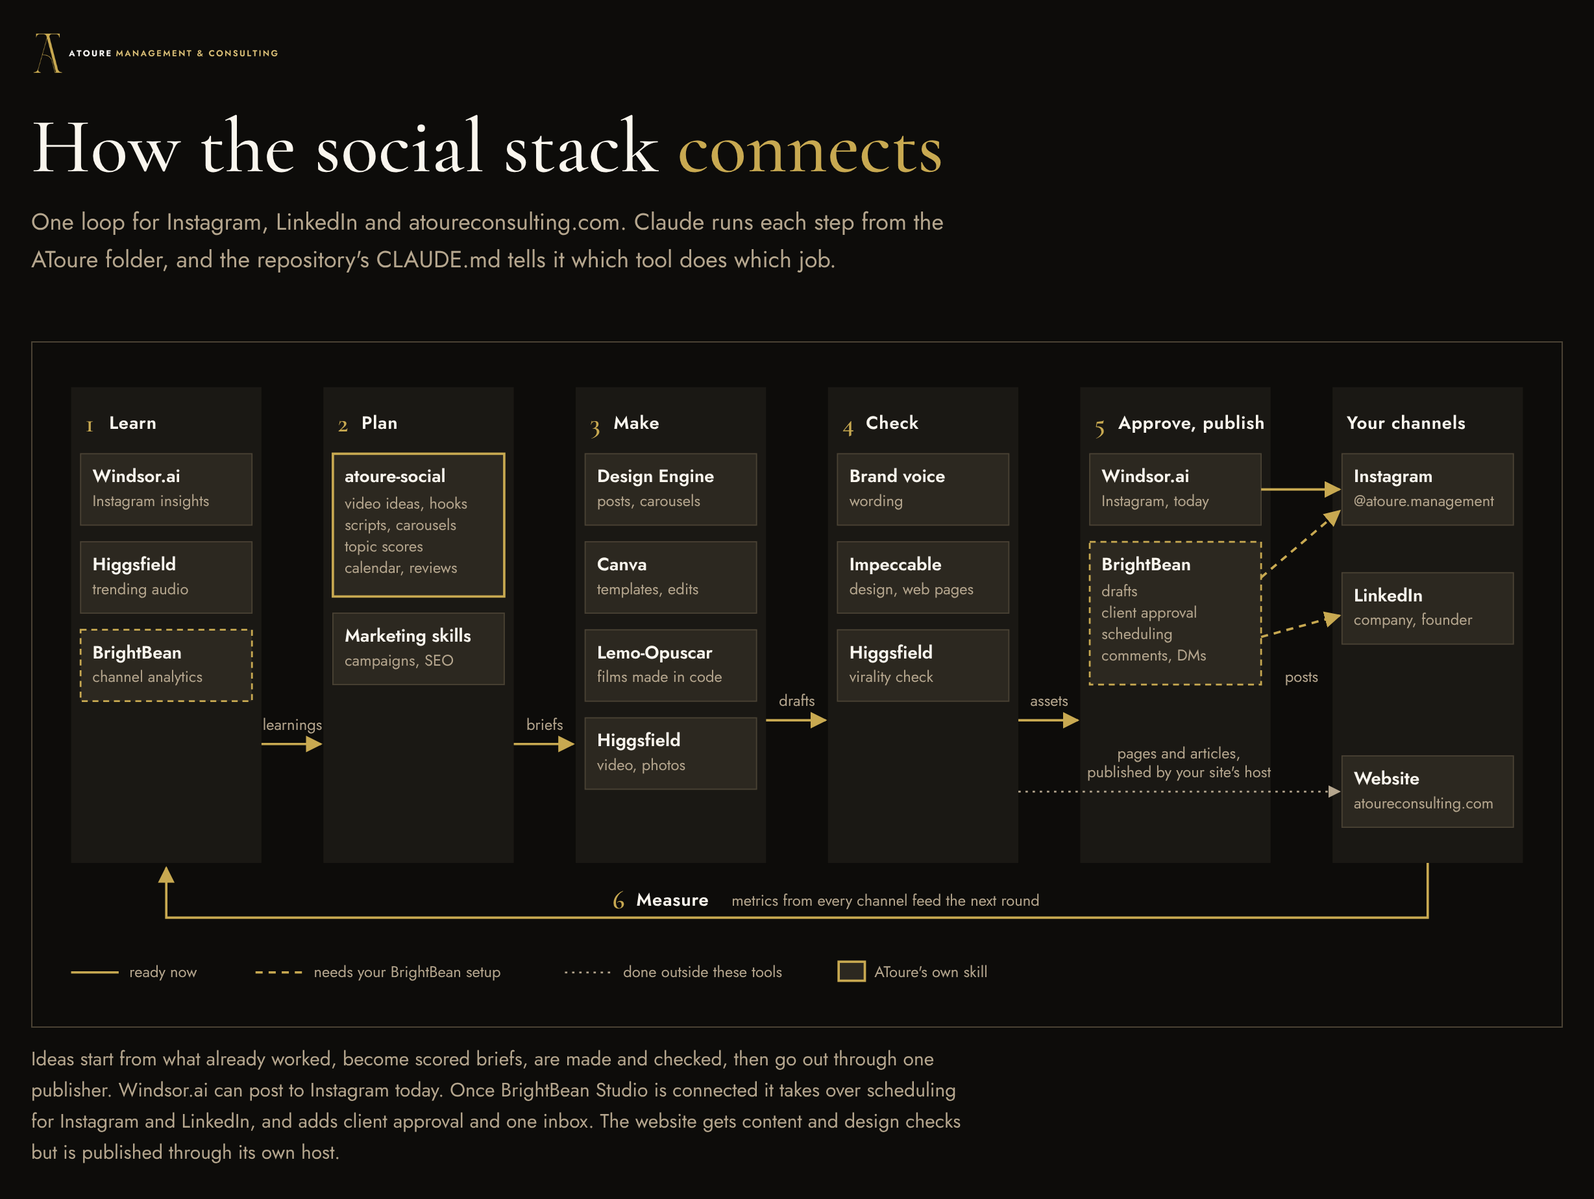
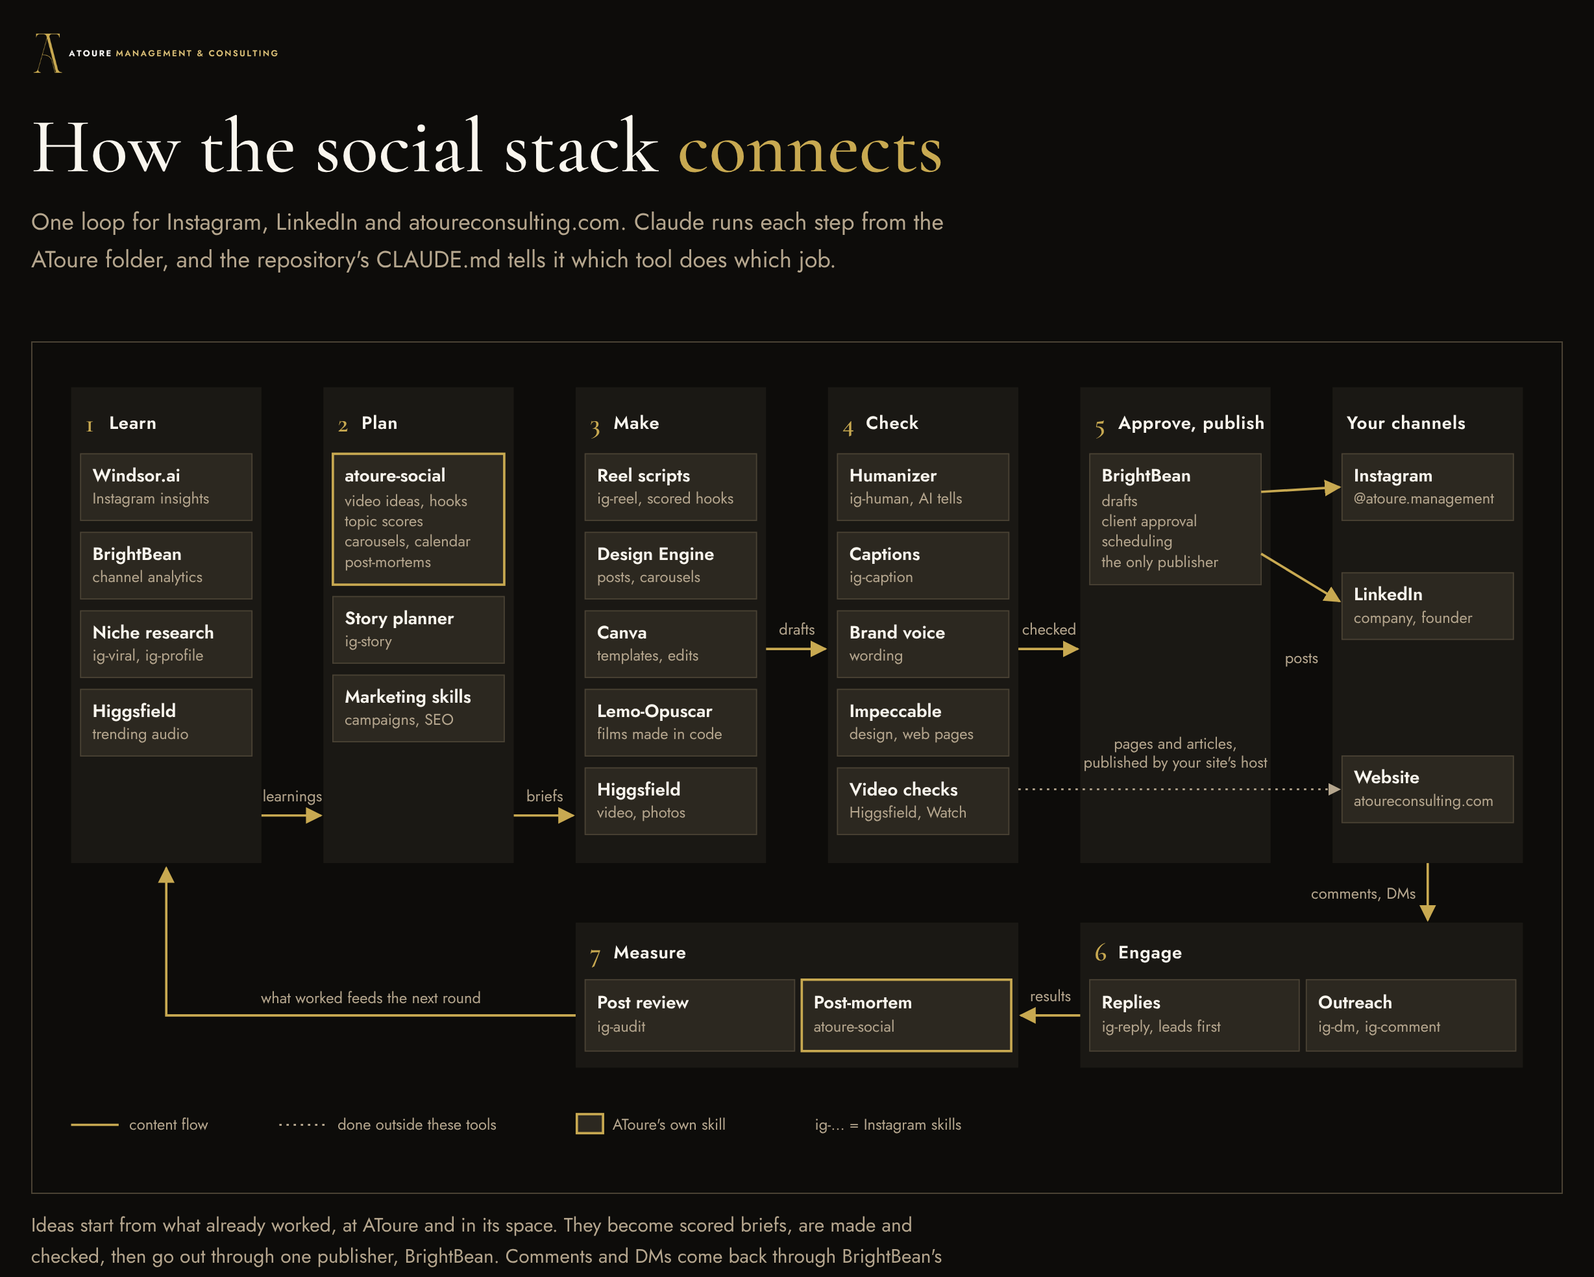
Redraw the stack diagram with Engage and Measure steps
The loop now runs Learn, Plan, Make, Check, Approve and publish, then
Engage (replies and outreach drafted by the Instagram skills, sent by the
user) and Measure (post review and post-mortem) back to Learn. The
Instagram skills sit at their steps, BrightBean is shown connected as the
only publisher, and Windsor.ai as insights only. The channel cards,
status lists and credits are updated; the page is republished at the
same link and the PNG regenerated.

Claude-Session: https://claude.ai/code/session_01YTg2RyojNFzVd1DHGCFS3m

diff --git a/tools/social-media/stack-diagram.html b/tools/social-media/stack-diagram.html
@@ -80,19 +80,22 @@ footer{border-top:1px solid var(--line);padding-top:16px;font-size:14px;color:va
 
   <figure>
     <div class="scroll">
-      <svg class="dg" viewBox="0 0 1250 540" role="img" aria-label="The AToure content loop: learn from Windsor.ai, Higgsfield and BrightBean analytics; plan with the atoure-social skill; make with Design Engine, Canva, Lemo-Opuscar and Higgsfield; check with brand voice, Impeccable and Higgsfield; approve and publish through Windsor.ai now or BrightBean once connected, to Instagram and LinkedIn; website pages go through the site's own host; metrics from every channel feed the next round.">
+      <svg class="dg" viewBox="0 0 1250 680" role="img" aria-label="The AToure content loop. Learn from Windsor.ai, Higgsfield, BrightBean analytics and niche research. Plan with atoure-social, the marketing skills and the story planner. Make reel scripts, images, films and video. Check with the humanizer, the caption checker, brand voice, Impeccable and video checks. Approve and publish through BrightBean to Instagram and LinkedIn; website pages go through the site's own host. Engage with replies and outreach. Measure with post reviews and post-mortems, which feed the next round.">
         <defs>
           <marker id="ah" viewBox="0 0 10 10" refX="9" refY="5" markerWidth="7" markerHeight="7" orient="auto-start-reverse"><path class="ah" d="M0,0 L10,5 L0,10 z"/></marker>
           <marker id="ahm" viewBox="0 0 10 10" refX="9" refY="5" markerWidth="7" markerHeight="7" orient="auto-start-reverse"><path class="ahm" d="M0,0 L10,5 L0,10 z"/></marker>
         </defs>
 
-        <!-- panels: x = 15 + i*212, width 160 -->
+        <!-- top row panels: x = 15 + i*212, width 160 -->
         <rect class="panel" x="15" y="20" width="160" height="400"/>
         <rect class="panel" x="227" y="20" width="160" height="400"/>
         <rect class="panel" x="439" y="20" width="160" height="400"/>
         <rect class="panel" x="651" y="20" width="160" height="400"/>
         <rect class="panel" x="863" y="20" width="160" height="400"/>
         <rect class="panel" x="1075" y="20" width="160" height="400"/>
+        <!-- bottom row panels -->
+        <rect class="panel" x="439" y="470" width="372" height="122"/>
+        <rect class="panel" x="863" y="470" width="372" height="122"/>
 
         <!-- stage headers -->
         <text class="num" x="27" y="57">1</text><text class="stage" x="47" y="55">Learn</text>
@@ -101,96 +104,119 @@ footer{border-top:1px solid var(--line);padding-top:16px;font-size:14px;color:va
         <text class="num" x="663" y="57">4</text><text class="stage" x="683" y="55">Check</text>
         <text class="num" x="875" y="57">5</text><text class="stage" x="895" y="55">Approve, publish</text>
         <text class="stage" x="1087" y="55">Your channels</text>
+        <text class="num" x="875" y="502">6</text><text class="stage" x="895" y="500">Engage</text>
+        <text class="num" x="451" y="502">7</text><text class="stage" x="471" y="500">Measure</text>
 
         <!-- 1 Learn -->
-        <rect class="node" x="23" y="76" width="144" height="60"/>
-        <text class="t" x="33" y="100">Windsor.ai</text><text class="s" x="33" y="120">Instagram insights</text>
-        <rect class="node" x="23" y="150" width="144" height="60"/>
-        <text class="t" x="33" y="174">Higgsfield</text><text class="s" x="33" y="194">trending audio</text>
-        <rect class="node setup" x="23" y="224" width="144" height="60"/>
-        <text class="t" x="33" y="248">BrightBean</text><text class="s" x="33" y="268">channel analytics</text>
+        <rect class="node" x="23" y="76" width="144" height="56"/>
+        <text class="t" x="33" y="99">Windsor.ai</text><text class="s" x="33" y="118">Instagram insights</text>
+        <rect class="node" x="23" y="142" width="144" height="56"/>
+        <text class="t" x="33" y="165">BrightBean</text><text class="s" x="33" y="184">channel analytics</text>
+        <rect class="node" x="23" y="208" width="144" height="56"/>
+        <text class="t" x="33" y="231">Niche research</text><text class="s" x="33" y="250">ig-viral, ig-profile</text>
+        <rect class="node" x="23" y="274" width="144" height="56"/>
+        <text class="t" x="33" y="297">Higgsfield</text><text class="s" x="33" y="316">trending audio</text>
 
         <!-- 2 Plan -->
-        <rect class="node core" x="235" y="76" width="144" height="120"/>
-        <text class="t" x="245" y="100">atoure-social</text>
-        <text class="s" x="245" y="122">video ideas, hooks</text>
-        <text class="s" x="245" y="140">scripts, carousels</text>
-        <text class="s" x="245" y="158">topic scores</text>
-        <text class="s" x="245" y="176">calendar, reviews</text>
-        <rect class="node" x="235" y="210" width="144" height="60"/>
-        <text class="t" x="245" y="234">Marketing skills</text><text class="s" x="245" y="254">campaigns, SEO</text>
+        <rect class="node core" x="235" y="76" width="144" height="110"/>
+        <text class="t" x="245" y="99">atoure-social</text>
+        <text class="s" x="245" y="120">video ideas, hooks</text>
+        <text class="s" x="245" y="137">topic scores</text>
+        <text class="s" x="245" y="154">carousels, calendar</text>
+        <text class="s" x="245" y="171">post-mortems</text>
+        <rect class="node" x="235" y="196" width="144" height="56"/>
+        <text class="t" x="245" y="219">Story planner</text><text class="s" x="245" y="238">ig-story</text>
+        <rect class="node" x="235" y="262" width="144" height="56"/>
+        <text class="t" x="245" y="285">Marketing skills</text><text class="s" x="245" y="304">campaigns, SEO</text>
 
         <!-- 3 Make -->
-        <rect class="node" x="447" y="76" width="144" height="60"/>
-        <text class="t" x="457" y="100">Design Engine</text><text class="s" x="457" y="120">posts, carousels</text>
-        <rect class="node" x="447" y="150" width="144" height="60"/>
-        <text class="t" x="457" y="174">Canva</text><text class="s" x="457" y="194">templates, edits</text>
-        <rect class="node" x="447" y="224" width="144" height="60"/>
-        <text class="t" x="457" y="248">Lemo-Opuscar</text><text class="s" x="457" y="268">films made in code</text>
-        <rect class="node" x="447" y="298" width="144" height="60"/>
-        <text class="t" x="457" y="322">Higgsfield</text><text class="s" x="457" y="342">video, photos</text>
+        <rect class="node" x="447" y="76" width="144" height="56"/>
+        <text class="t" x="457" y="99">Reel scripts</text><text class="s" x="457" y="118">ig-reel, scored hooks</text>
+        <rect class="node" x="447" y="142" width="144" height="56"/>
+        <text class="t" x="457" y="165">Design Engine</text><text class="s" x="457" y="184">posts, carousels</text>
+        <rect class="node" x="447" y="208" width="144" height="56"/>
+        <text class="t" x="457" y="231">Canva</text><text class="s" x="457" y="250">templates, edits</text>
+        <rect class="node" x="447" y="274" width="144" height="56"/>
+        <text class="t" x="457" y="297">Lemo-Opuscar</text><text class="s" x="457" y="316">films made in code</text>
+        <rect class="node" x="447" y="340" width="144" height="56"/>
+        <text class="t" x="457" y="363">Higgsfield</text><text class="s" x="457" y="382">video, photos</text>
 
         <!-- 4 Check -->
-        <rect class="node" x="659" y="76" width="144" height="60"/>
-        <text class="t" x="669" y="100">Brand voice</text><text class="s" x="669" y="120">wording</text>
-        <rect class="node" x="659" y="150" width="144" height="60"/>
-        <text class="t" x="669" y="174">Impeccable</text><text class="s" x="669" y="194">design, web pages</text>
-        <rect class="node" x="659" y="224" width="144" height="60"/>
-        <text class="t" x="669" y="248">Higgsfield</text><text class="s" x="669" y="268">virality check</text>
+        <rect class="node" x="659" y="76" width="144" height="56"/>
+        <text class="t" x="669" y="99">Humanizer</text><text class="s" x="669" y="118">ig-human, AI tells</text>
+        <rect class="node" x="659" y="142" width="144" height="56"/>
+        <text class="t" x="669" y="165">Captions</text><text class="s" x="669" y="184">ig-caption</text>
+        <rect class="node" x="659" y="208" width="144" height="56"/>
+        <text class="t" x="669" y="231">Brand voice</text><text class="s" x="669" y="250">wording</text>
+        <rect class="node" x="659" y="274" width="144" height="56"/>
+        <text class="t" x="669" y="297">Impeccable</text><text class="s" x="669" y="316">design, web pages</text>
+        <rect class="node" x="659" y="340" width="144" height="56"/>
+        <text class="t" x="669" y="363">Video checks</text><text class="s" x="669" y="382">Higgsfield, Watch</text>
 
         <!-- 5 Approve, publish -->
-        <rect class="node" x="871" y="76" width="144" height="60"/>
-        <text class="t" x="881" y="100">Windsor.ai</text><text class="s" x="881" y="120">Instagram, today</text>
-        <rect class="node setup" x="871" y="150" width="144" height="120"/>
-        <text class="t" x="881" y="174">BrightBean</text>
-        <text class="s" x="881" y="196">drafts</text>
-        <text class="s" x="881" y="214">client approval</text>
-        <text class="s" x="881" y="232">scheduling</text>
-        <text class="s" x="881" y="250">comments, DMs</text>
+        <rect class="node" x="871" y="76" width="144" height="110"/>
+        <text class="t" x="881" y="99">BrightBean</text>
+        <text class="s" x="881" y="120">drafts</text>
+        <text class="s" x="881" y="137">client approval</text>
+        <text class="s" x="881" y="154">scheduling</text>
+        <text class="s" x="881" y="171">the only publisher</text>
 
         <!-- channels -->
-        <rect class="node" x="1083" y="76" width="144" height="60"/>
-        <text class="t" x="1093" y="100">Instagram</text><text class="s" x="1093" y="120">@atoure.management</text>
-        <rect class="node" x="1083" y="176" width="144" height="60"/>
-        <text class="t" x="1093" y="200">LinkedIn</text><text class="s" x="1093" y="220">company, founder</text>
-        <rect class="node" x="1083" y="330" width="144" height="60"/>
-        <text class="t" x="1093" y="354">Website</text><text class="s" x="1093" y="374">atoureconsulting.com</text>
+        <rect class="node" x="1083" y="76" width="144" height="56"/>
+        <text class="t" x="1093" y="99">Instagram</text><text class="s" x="1093" y="118">@atoure.management</text>
+        <rect class="node" x="1083" y="176" width="144" height="56"/>
+        <text class="t" x="1093" y="199">LinkedIn</text><text class="s" x="1093" y="218">company, founder</text>
+        <rect class="node" x="1083" y="330" width="144" height="56"/>
+        <text class="t" x="1093" y="353">Website</text><text class="s" x="1093" y="372">atoureconsulting.com</text>
 
-        <!-- stage to stage flow -->
-        <line class="flow" x1="175" y1="320" x2="225" y2="320" marker-end="url(#ah)"/>
-        <text class="lab" x="201" y="308" text-anchor="middle">learnings</text>
-        <line class="flow" x1="387" y1="320" x2="437" y2="320" marker-end="url(#ah)"/>
-        <text class="lab" x="413" y="308" text-anchor="middle">briefs</text>
-        <line class="flow" x1="599" y1="300" x2="649" y2="300" marker-end="url(#ah)"/>
-        <text class="lab" x="625" y="288" text-anchor="middle">drafts</text>
-        <line class="flow" x1="811" y1="300" x2="861" y2="300" marker-end="url(#ah)"/>
-        <text class="lab" x="837" y="288" text-anchor="middle">assets</text>
+        <!-- 6 Engage -->
+        <rect class="node" x="871" y="518" width="176" height="60"/>
+        <text class="t" x="881" y="542">Replies</text><text class="s" x="881" y="562">ig-reply, leads first</text>
+        <rect class="node" x="1053" y="518" width="176" height="60"/>
+        <text class="t" x="1063" y="542">Outreach</text><text class="s" x="1063" y="562">ig-dm, ig-comment</text>
+
+        <!-- 7 Measure -->
+        <rect class="node" x="447" y="518" width="176" height="60"/>
+        <text class="t" x="457" y="542">Post review</text><text class="s" x="457" y="562">ig-audit</text>
+        <rect class="node core" x="629" y="518" width="176" height="60"/>
+        <text class="t" x="639" y="542">Post-mortem</text><text class="s" x="639" y="562">atoure-social</text>
+
+        <!-- stage to stage flow, top row -->
+        <line class="flow" x1="175" y1="380" x2="225" y2="380" marker-end="url(#ah)"/>
+        <text class="lab" x="201" y="368" text-anchor="middle">learnings</text>
+        <line class="flow" x1="387" y1="380" x2="437" y2="380" marker-end="url(#ah)"/>
+        <text class="lab" x="413" y="368" text-anchor="middle">briefs</text>
+        <line class="flow" x1="599" y1="240" x2="649" y2="240" marker-end="url(#ah)"/>
+        <text class="lab" x="625" y="228" text-anchor="middle">drafts</text>
+        <line class="flow" x1="811" y1="240" x2="861" y2="240" marker-end="url(#ah)"/>
+        <text class="lab" x="837" y="228" text-anchor="middle">checked</text>
 
         <!-- publishing -->
-        <line class="flow" x1="1015" y1="106" x2="1081" y2="106" marker-end="url(#ah)"/>
-        <line class="flow setup" x1="1015" y1="180" x2="1081" y2="124" marker-end="url(#ah)"/>
-        <line class="flow setup" x1="1015" y1="230" x2="1081" y2="212" marker-end="url(#ah)"/>
-        <text class="lab" x="1049" y="268" text-anchor="middle">posts</text>
+        <line class="flow" x1="1015" y1="108" x2="1081" y2="104" marker-end="url(#ah)"/>
+        <line class="flow" x1="1015" y1="160" x2="1081" y2="200" marker-end="url(#ah)"/>
+        <text class="lab" x="1049" y="252" text-anchor="middle">posts</text>
 
         <!-- website path, outside these tools -->
-        <line class="outside" x1="811" y1="360" x2="1081" y2="360" marker-end="url(#ahm)"/>
-        <text class="lab" x="946" y="332" text-anchor="middle">pages and articles,</text>
-        <text class="lab" x="946" y="348" text-anchor="middle">published by your site's host</text>
+        <line class="outside" x1="811" y1="358" x2="1081" y2="358" marker-end="url(#ahm)"/>
+        <text class="lab" x="943" y="324" text-anchor="middle">pages and articles,</text>
+        <text class="lab" x="943" y="340" text-anchor="middle">published by your site's host</text>
 
-        <!-- 6 Measure: return loop -->
-        <polyline class="flow" points="1155,420 1155,466 95,466 95,424" marker-end="url(#ah)"/>
-        <text class="num" x="470" y="458">6</text>
-        <text class="stage" x="490" y="456">Measure</text>
-        <text class="lab" x="570" y="456">metrics from every channel feed the next round</text>
+        <!-- channels to engage, engage to measure, measure to learn -->
+        <line class="flow" x1="1155" y1="420" x2="1155" y2="468" marker-end="url(#ah)"/>
+        <text class="lab" x="1145" y="450" text-anchor="end">comments, DMs</text>
+        <line class="flow" x1="863" y1="548" x2="813" y2="548" marker-end="url(#ah)"/>
+        <text class="lab" x="838" y="536" text-anchor="middle">results</text>
+        <polyline class="flow" points="439,548 95,548 95,424" marker-end="url(#ah)"/>
+        <text class="lab" x="267" y="538" text-anchor="middle">what worked feeds the next round</text>
 
         <!-- legend -->
-        <line class="flow" x1="15" y1="512" x2="55" y2="512"/><text class="lab" x="64" y="516">ready now</text>
-        <line class="flow setup" x1="170" y1="512" x2="210" y2="512"/><text class="lab" x="219" y="516">needs your BrightBean setup</text>
-        <line class="outside" x1="430" y1="512" x2="470" y2="512"/><text class="lab" x="479" y="516">done outside these tools</text>
-        <rect class="node core" x="660" y="503" width="22" height="16"/><text class="lab" x="690" y="516">AToure's own skill</text>
+        <line class="flow" x1="15" y1="640" x2="55" y2="640"/><text class="lab" x="64" y="644">content flow</text>
+        <line class="outside" x1="190" y1="640" x2="230" y2="640"/><text class="lab" x="239" y="644">done outside these tools</text>
+        <rect class="node core" x="440" y="631" width="22" height="16"/><text class="lab" x="470" y="644">AToure's own skill</text>
+        <text class="lab" x="640" y="644">ig-… = Instagram skills</text>
       </svg>
     </div>
-    <figcaption>Ideas start from what already worked, become scored briefs, are made and checked, then go out through one publisher. Windsor.ai can post to Instagram today. Once BrightBean Studio is connected it takes over scheduling for Instagram and LinkedIn, and adds client approval and one inbox. The website gets content and design checks but is published through its own host.</figcaption>
+    <figcaption>Ideas start from what already worked, at AToure and in its space. They become scored briefs, are made and checked, then go out through one publisher, BrightBean. Comments and DMs come back through BrightBean's inbox; the Instagram skills sort them and draft replies and outreach, which you send. What worked feeds the next round. The website gets content and design checks but is published through its own host.</figcaption>
   </figure>
 
   <section>
@@ -200,10 +226,12 @@ footer{border-top:1px solid var(--line);padding-top:16px;font-size:14px;color:va
         <h3>Instagram</h3>
         <div class="handle">@atoure.management</div>
         <dl>
-          <dt>Plan</dt><dd>Reels, carousels and stories from <code>atoure-social</code>, with hooks scored before filming</dd>
+          <dt>Plan</dt><dd>Ideas and the calendar from <code>atoure-social</code>; reel scripts from <code>ig-reel</code>; stories from <code>ig-story</code></dd>
           <dt>Make</dt><dd>Design Engine or Canva for images; Lemo-Opuscar, Higgsfield or event footage for reels</dd>
-          <dt>Publish</dt><dd>Windsor.ai now; BrightBean once connected</dd>
-          <dt>Measure</dt><dd>Windsor.ai insights, then BrightBean analytics</dd>
+          <dt>Check</dt><dd><code>ig-human</code> and <code>ig-caption</code> before you approve</dd>
+          <dt>Publish</dt><dd>BrightBean</dd>
+          <dt>Engage</dt><dd><code>ig-reply</code> for comments, <code>ig-dm</code> and <code>ig-comment</code> for outreach; you send from BrightBean's inbox or the app</dd>
+          <dt>Measure</dt><dd>Windsor.ai and BrightBean numbers, ranked by <code>ig-audit</code></dd>
         </dl>
       </article>
       <article class="card">
@@ -212,6 +240,7 @@ footer{border-top:1px solid var(--line);padding-top:16px;font-size:14px;color:va
         <dl>
           <dt>Plan</dt><dd>Posts, document carousels and short video from <code>atoure-social</code>, led by proof and insight</dd>
           <dt>Make</dt><dd>Design Engine for carousel slides and covers; Lemo-Opuscar for explainers</dd>
+          <dt>Check</dt><dd><code>ig-human</code> for wording, Impeccable for designs</dd>
           <dt>Publish</dt><dd>BrightBean, for the company page and the founder's profile</dd>
           <dt>Measure</dt><dd>BrightBean analytics, then a post-mortem</dd>
         </dl>
@@ -234,26 +263,26 @@ footer{border-top:1px solid var(--line);padding-top:16px;font-size:14px;color:va
     <section>
       <h3>Ready now</h3>
       <ul>
-        <li><code>atoure-social</code>: AToure's own content skill</li>
+        <li><code>atoure-social</code> and the ten Instagram skills</li>
+        <li>BrightBean, connected, as the only publisher</li>
         <li>Design Engine, set to the AToure brand</li>
-        <li>Impeccable and Lemo-Opuscar plugins</li>
-        <li>Higgsfield, Canva and Windsor.ai (Instagram linked)</li>
-        <li>Marketing and brand-voice skills</li>
+        <li>Impeccable, Lemo-Opuscar and Watch plugins</li>
+        <li>Higgsfield, Canva and Windsor.ai (Instagram insights)</li>
       </ul>
     </section>
     <section class="todo">
       <h3>Needs you</h3>
       <ol>
-        <li>Create a free BrightBean Studio account and connect Instagram and LinkedIn.</li>
-        <li>Add it at claude.ai/customize/connectors as a custom connector: <code>https://studio.brightbean.xyz/api/v1/mcp</code></li>
-        <li>On your computer, run <code>npm install</code> once in <code>.claude/skills/design-engine/scripts</code>.</li>
-        <li>Optional: connect Google Analytics 4 and Search Console in Windsor.ai.</li>
+        <li>Confirm the marked lines in <code>content/instagram/voice.md</code>, or give Claude three of your own reels or captions.</li>
+        <li>On your computer, run the setup script once (<code>scripts\setup-local.ps1</code> on Windows).</li>
+        <li>In Windsor.ai, disconnect the <code>instagram_public</code> account so your insights can be read again.</li>
+        <li>Optional: Google Analytics 4 and Search Console in Windsor.ai; PostZen if you want comment-to-DM automations.</li>
       </ol>
     </section>
   </section>
 
   <footer>
     <span>Details: <code>tools/social-media/README.md</code> in the AToure repository.</span>
-    <span>Claude Design Engine by Rahaman Bin Ujit. BrightBean Studio agent skill by Brightbean (MIT). atoure-social methods adapted from Easel by ZJU-REAL (Apache 2.0).</span>
+    <span>Claude Design Engine by Rahaman Bin Ujit. BrightBean Studio agent skill by Brightbean (MIT). Instagram skills from postzen-dev/instagram-agent-skill (MIT). atoure-social methods adapted from Easel by ZJU-REAL (Apache 2.0).</span>
   </footer>
 </div>
